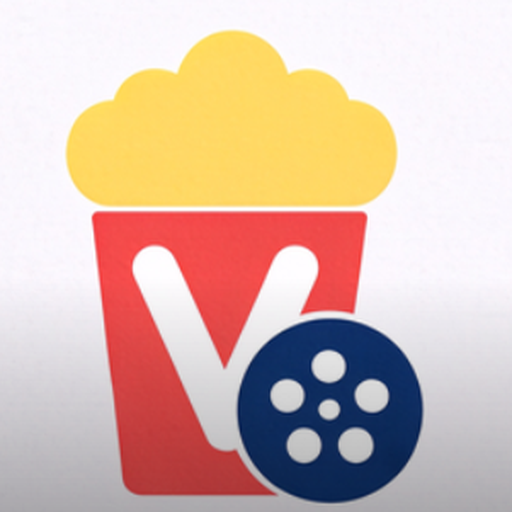
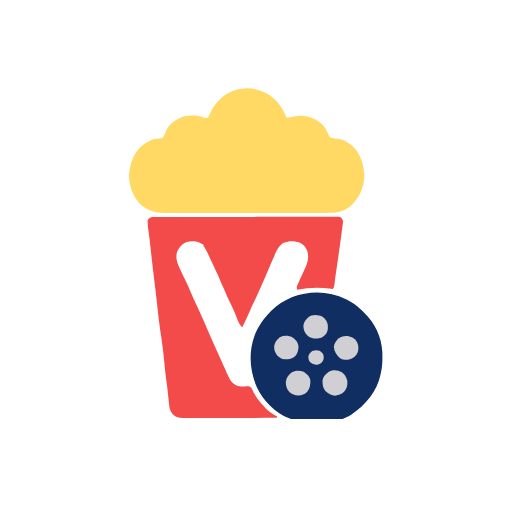
docs: 品牌更名「微影」、更新 README 与透明无遮罩图标

diff --git a/README.md b/README.md
@@ -3,28 +3,32 @@
 </div>
 
 <div align="center">
-  <img src="images/vbox-icon.png" width="120" alt="V影视"/>
+  <img src="images/weiying-icon.png" width="120" alt="微影"/>
   <br/>
 
-# V影视
+# 微影
 
 **基于 AVBox 二次开发的开源 Android 影视播放器框架**
 
-版本 `1.4.0` · 包名 `com.github.VVbox.osc` · Android 7.0+（`arm64-v8a`）· [AGPL-3.0](LICENSE)
+版本 `1.5` · 包名 `com.github.vying.osc` · Android 7.0+（`arm64-v8a`）· [AGPL-3.0](LICENSE)
 
-[下载安装包](https://github.com/wade0132/Vbox/releases/tag/v1.4.0) · [提交 Issue](https://github.com/wade0132/Vbox/issues) · [上游项目 AVBox](https://github.com/XiaochangXu/AVBox)
+[下载安装包](https://github.com/wade0132/Vbox/releases) · [提交 Issue](https://github.com/wade0132/Vbox/issues) · [上游项目 AVBox](https://github.com/XiaochangXu/AVBox)
 </div>
 
 > 本软件仅提供播放界面、源配置管理与本地播放能力，默认**不预置、不内置、不提供**任何影视内容、直播频道、节目单或第三方解析接口。使用前请阅读文末的[免责声明与用户协议](#免责声明与用户协议)。
 
 ## 项目简介
 
-V影视 是在 [AVBox](https://github.com/XiaochangXu/AVBox) v1.4.0 基础上二次开发的 Android 播放器框架，保留上游的点播、直播、TMDB 刮削与播放能力，并新增坚果云 WebDAV 多端同步与若干界面改进。
+微影 是在 [AVBox](https://github.com/XiaochangXu/AVBox) v1.4.0 基础上二次开发的 Android 播放器框架，保留上游的点播、直播、TMDB 刮削与播放能力，并新增坚果云 WebDAV 多端同步与若干界面改进。
 
-- 版本：versionName `1.4.0` / versionCode `44`
+- 版本：versionName `1.5` / versionCode `45`
+- 包名：`com.github.vying.osc`
 - 架构：`arm64-v8a`，Android 7.0+
-- 体积：开启 R8 代码与资源压缩后，安装包约 42.68 MB
+- 体积：启用 R8 压缩并以官方 1.4.0 底包重组后，安装包约 29.25 MB
+- 签名：沿用官方 release 证书（纯 v2 签名）
 - 源码：本仓库 `main` 分支即为二次开发后的完整可编译工程
+
+> **升级提示**：应用名与包名已由「V影视 / `com.github.VVbox.osc`」更改为「微影 / `com.github.vying.osc`」。包名变更意味着无法覆盖安装旧版本，请先卸载旧版再安装；观影记录可通过坚果云同步备份/恢复。
 
 ## 主要功能
 
@@ -47,20 +51,14 @@ V影视 是在 [AVBox](https://github.com/XiaochangXu/AVBox) v1.4.0 基础上二
 - 移除上游 1.3.0 起已废弃的 M3U8 净化功能（开关、文案、KV 键、播放分支与底层实现类全部清除）
 - 修复 UI 错位与网络 401 报错
 - 设置页 GitHub 仓库链接改为本项目，关于页免责声明改写为「基于 axbox 二开」并补充出处链接
-- 开启 R8 代码与资源压缩，安装包由约 53 MB 优化至 42.68 MB
+- 开启 R8 代码与资源压缩，并以官方 1.4.0 底包重组，安装包约 29.25 MB
+- 修复全屏播放时亮度/音量分区随机型横竖屏配置偏移的问题（小米 13 等手机横屏下左侧亮度区缩水）
 
 ## 下载与安装
 
-前往 [v1.4.0 Release](https://github.com/wade0132/Vbox/releases/tag/v1.4.0) 下载：
+前往 [Releases 页面](https://github.com/wade0132/Vbox/releases) 下载最新安装包（`arm64-v8a`，Android 7.0+）。Release 资产统一使用英文文件名（GitHub 不支持中文资产名），内容与本地同名文件逐字节一致。
 
-| 文件 | 说明 |
-| --- | --- |
-| `VVbox-1.4.0.apk` | 安装包，`arm64-v8a`，Android Debug 签名，可直接覆盖安装 |
-| `VVbox-1.4.0-source.zip` | 完整可编译工程源码（已排除 build 产物、SDK 与本地配置） |
-| `avbox-nutstore-sync.zip` | 坚果云同步模块独立源码 + 接入文档 `INTEGRATION.md` |
-| `VVbox-icon-preview.png` | 图标 / 启动图预览 |
-
-> GitHub Release 不支持中文资产名，故上传文件统一使用英文文件名，内容与本地同名文件逐字节一致。
+> 由于包名已变更，从旧版「V影视」升级时请先卸载旧应用；观影记录可通过坚果云同步备份与恢复。
 
 ## 从源码构建
 
@@ -98,7 +96,7 @@ V影视 是在 [AVBox](https://github.com/XiaochangXu/AVBox) v1.4.0 基础上二
 
 ## 一、软件性质
 
-1. V影视（基于 [AVBox](https://github.com/XiaochangXu/AVBox) 二次开发）是一款开源的视频播放器框架，仅提供播放界面、源配置管理和本地播放能力。
+1. 微影（基于 [AVBox](https://github.com/XiaochangXu/AVBox) 二次开发）是一款开源的视频播放器框架，仅提供播放界面、源配置管理和本地播放能力。
 2. 本软件默认状态下**不预置、不内置、不提供**任何影视内容、直播频道、节目单、订阅服务或第三方解析接口。
 3. 本软件开发者不参与任何内容的制作、上传、存储、分发或运营。
 
